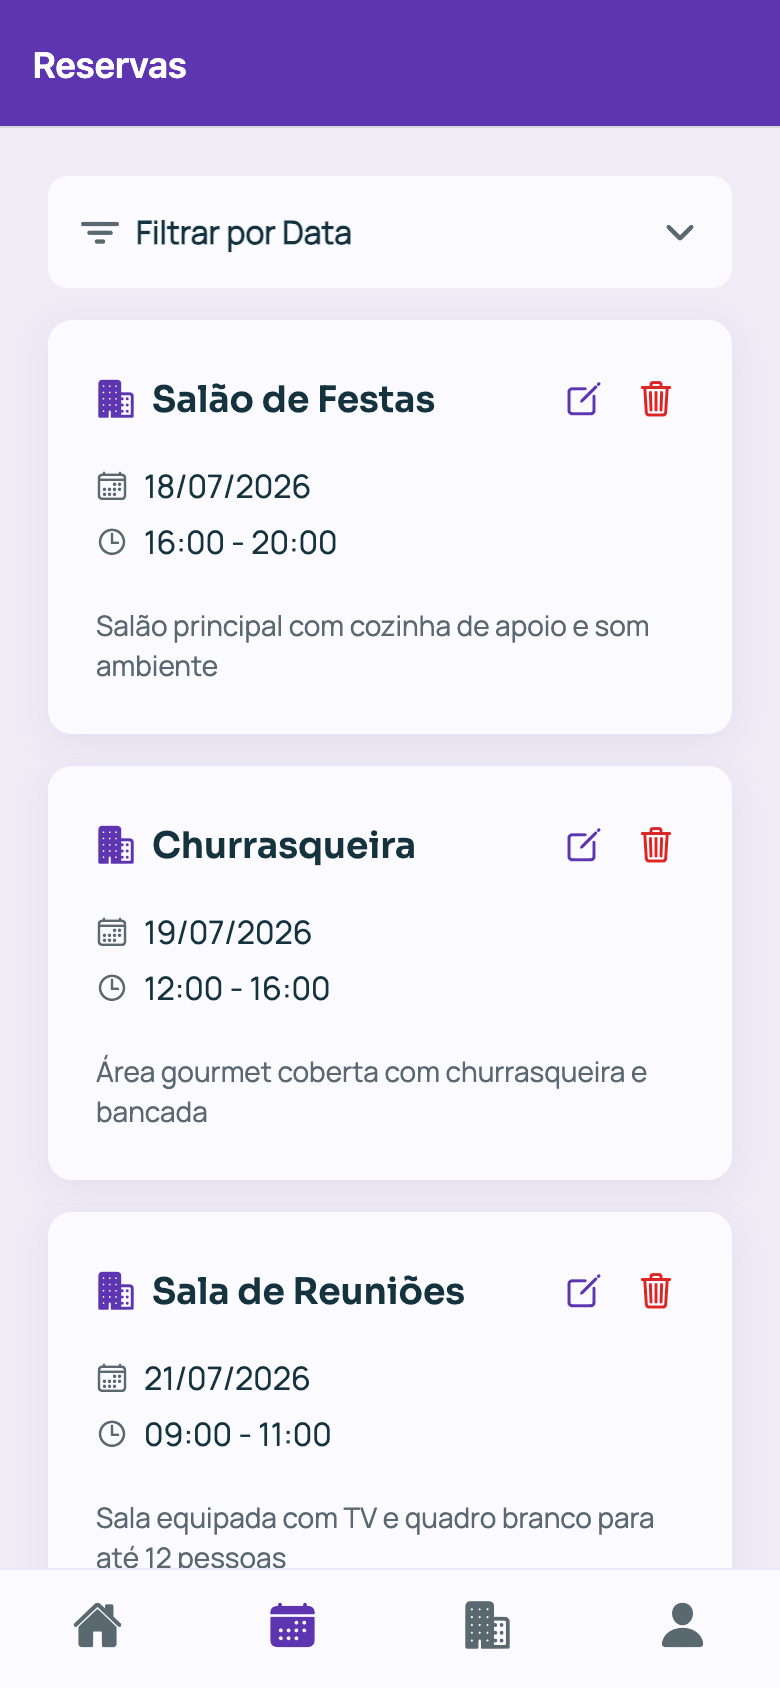
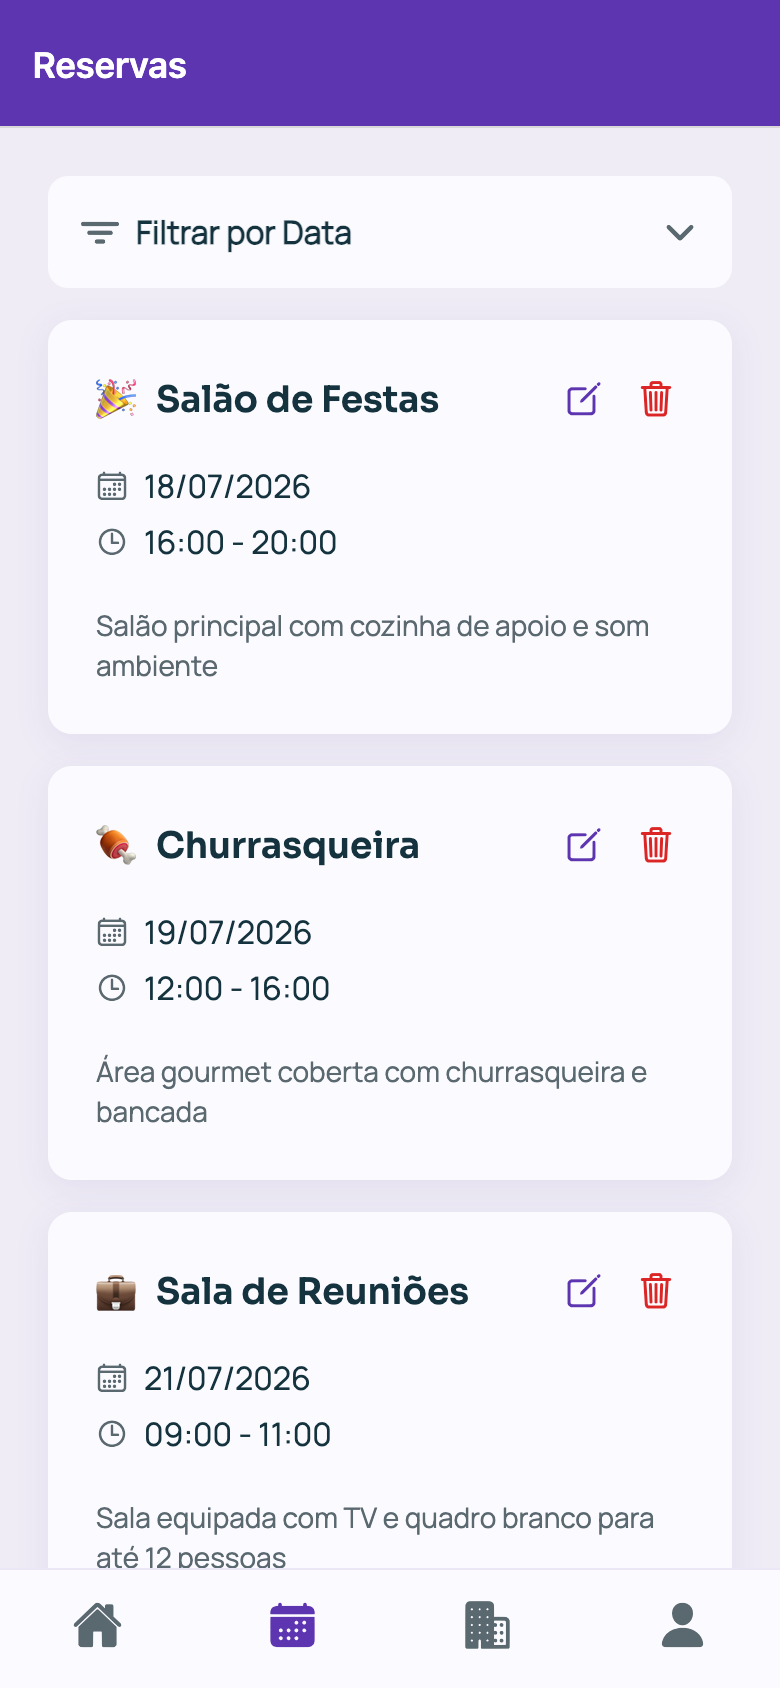
feat(mobile): match admin login design and add space emojis to bookings

Changed region(s): [[0.1231, 0.7393, 0.5846, 0.8009], [0.1231, 0.4621, 0.5538, 0.5237], [0.1231, 0.2156, 0.5538, 0.2464]]

diff --git a/src/mobile/components/brand/AgendifyIcon.tsx b/src/mobile/components/brand/AgendifyIcon.tsx
@@ -1,0 +1,67 @@
+import Svg, { Circle, Defs, Mask, Path, Rect } from 'react-native-svg';
+
+export type IconVariant = 'brand' | 'dark' | 'mono';
+
+interface AgendifyIconProps {
+  /** brand: roxo+âmbar · dark: roxo claro p/ fundos escuros · mono: uma cor */
+  variant?: IconVariant;
+  size?: number;
+  /** Cor usada na variante mono. */
+  color?: string;
+}
+
+const SQUARE_FILL: Record<IconVariant, string> = {
+  brand: '#5E35B1',
+  dark: '#7E55D2',
+  mono: 'currentColor',
+};
+
+/**
+ * Ícone da marca Agendify — quadrado arredondado (espaço) + selo âmbar com check
+ * (reserva confirmada). Porta fiel do componente do admin (grade 240×240): o vão
+ * é subtraído via máscara para o selo "encaixar" no espaço.
+ */
+export function AgendifyIcon({
+  variant = 'brand',
+  size = 32,
+  color = '#5E35B1',
+}: AgendifyIconProps) {
+  const maskId = `agendify-notch-${variant}`;
+  const mono = variant === 'mono';
+  const squareFill = mono ? color : SQUARE_FILL[variant];
+
+  return (
+    <Svg
+      viewBox="0 0 240 240"
+      width={size}
+      height={size}
+      accessibilityRole="image"
+      accessibilityLabel="Agendify"
+    >
+      <Defs>
+        <Mask id={maskId}>
+          <Rect width="240" height="240" fill="#fff" />
+          <Circle cx="176" cy="176" r="58" fill="#000" />
+        </Mask>
+      </Defs>
+      <Rect
+        x="18"
+        y="18"
+        width="150"
+        height="150"
+        rx="42"
+        fill={squareFill}
+        mask={`url(#${maskId})`}
+      />
+      <Circle cx="176" cy="176" r="44" fill={mono ? color : '#FFB300'} />
+      <Path
+        d="M160 177 L171 188 L193 164"
+        fill="none"
+        stroke={mono ? '#fff' : '#14333E'}
+        strokeWidth="8"
+        strokeLinecap="round"
+        strokeLinejoin="round"
+      />
+    </Svg>
+  );
+}

diff --git a/src/mobile/app/(auth)/login.tsx b/src/mobile/app/(auth)/login.tsx
@@ -18,10 +18,11 @@ import {
   spacing,
   typography,
   borderRadius,
-  fontFamily,
   type ThemeColors,
 } from '@/constants/theme';
+import { Logo } from '@/components/brand';
 import { Button } from '@/components/ui/Button';
+import { Card } from '@/components/ui/Card';
 import { Input } from '@/components/ui/Input';
 import { useAuth } from '@/lib/contexts/AuthContext';
 import { useTheme } from '@/lib/theme/ThemeProvider';
@@ -79,14 +80,11 @@ export default function LoginScreen() {
         contentContainerStyle={styles.scrollContent}
         keyboardShouldPersistTaps="handled"
       >
-        <View style={styles.header}>
-          <Text style={styles.brandTitle} accessibilityRole="header">
-            Agendify
-          </Text>
-          <Text style={styles.subtitle}>Sistema de Reservas de Espaços</Text>
-        </View>
-
-        <View style={styles.form}>
+        <Card style={styles.card}>
+          <View style={styles.header}>
+            <Logo orientation="vertical" iconSize={48} />
+            <Text style={styles.subtitle}>Sistema de Reservas de Espaços</Text>
+          </View>
           <Controller
             control={control}
             name="email"
@@ -100,13 +98,6 @@ export default function LoginScreen() {
                 error={errors.email?.message}
                 keyboardType="email-address"
                 autoCapitalize="none"
-                leftIcon={
-                  <Ionicons
-                    name="mail-outline"
-                    size={20}
-                    color={colors.inkMuted}
-                  />
-                }
               />
             )}
           />
@@ -123,13 +114,6 @@ export default function LoginScreen() {
                 onBlur={onBlur}
                 error={errors.password?.message}
                 secureTextEntry={!showPassword}
-                leftIcon={
-                  <Ionicons
-                    name="lock-closed-outline"
-                    size={20}
-                    color={colors.inkMuted}
-                  />
-                }
                 rightIcon={
                   <Pressable
                     onPress={() => setShowPassword(!showPassword)}
@@ -169,7 +153,7 @@ export default function LoginScreen() {
               <Text style={styles.registerTextBold}>Aceitar</Text>
             </Text>
           </Pressable>
-        </View>
+        </Card>
       </ScrollView>
     </KeyboardAvoidingView>
   );
@@ -179,7 +163,7 @@ const createStyles = (colors: ThemeColors) =>
   StyleSheet.create({
     container: {
       flex: 1,
-      backgroundColor: colors.primary,
+      backgroundColor: colors.background,
     },
     scrollContent: {
       flexGrow: 1,
@@ -189,26 +173,19 @@ const createStyles = (colors: ThemeColors) =>
       width: '100%',
       alignSelf: 'center',
     },
-    header: {
-      alignItems: 'center',
-      marginBottom: spacing.xxl,
-    },
-    brandTitle: {
-      fontFamily: fontFamily.displayExtrabold,
-      color: colors.onPrimary,
-      fontSize: 48,
-      fontWeight: '800',
-      marginBottom: spacing.sm,
-    },
-    subtitle: {
-      ...typography.body,
-      color: colors.onPrimary,
-      opacity: 0.9,
-    },
-    form: {
-      backgroundColor: colors.surface,
+    // Mesmo desenho do login do admin: card centrado, lockup vertical + subtítulo.
+    card: {
       borderRadius: borderRadius.xl,
       padding: spacing.xl,
+    },
+    header: {
+      alignItems: 'center',
+      marginBottom: spacing.xl,
+      gap: spacing.sm,
+    },
+    subtitle: {
+      ...typography.bodySmall,
+      color: colors.textMuted,
     },
     loginButton: {
       marginTop: spacing.md,

diff --git a/src/mobile/components/brand/Logo.tsx b/src/mobile/components/brand/Logo.tsx
@@ -1,0 +1,43 @@
+import { View, type StyleProp, type ViewStyle } from 'react-native';
+import { spacing } from '@/constants/theme';
+import { useTheme } from '@/lib/theme/ThemeProvider';
+import { AgendifyIcon } from './AgendifyIcon';
+import { Wordmark } from './Wordmark';
+
+interface LogoProps {
+  /** horizontal: ícone + wordmark lado a lado · vertical: empilhado (splash/login) */
+  orientation?: 'horizontal' | 'vertical';
+  iconSize?: number;
+  wordmarkFontSize?: number;
+  style?: StyleProp<ViewStyle>;
+}
+
+/**
+ * Trava (lockup) da marca — ícone + wordmark, como no admin. No tema escuro o
+ * ícone usa a variante "dark" (roxo claro), seguindo o guia de marca.
+ */
+export function Logo({
+  orientation = 'horizontal',
+  iconSize = 36,
+  wordmarkFontSize = 24,
+  style,
+}: LogoProps) {
+  const { isDark } = useTheme();
+  const vertical = orientation === 'vertical';
+
+  return (
+    <View
+      style={[
+        {
+          flexDirection: vertical ? 'column' : 'row',
+          alignItems: 'center',
+          gap: vertical ? spacing.md : spacing.sm,
+        },
+        style,
+      ]}
+    >
+      <AgendifyIcon variant={isDark ? 'dark' : 'brand'} size={iconSize} />
+      <Wordmark fontSize={wordmarkFontSize} />
+    </View>
+  );
+}

diff --git a/src/mobile/components/brand/Wordmark.tsx b/src/mobile/components/brand/Wordmark.tsx
@@ -1,0 +1,33 @@
+import { Text, type StyleProp, type TextStyle } from 'react-native';
+import { fontFamily } from '@/constants/theme';
+import { useTheme } from '@/lib/theme/ThemeProvider';
+
+interface WordmarkProps {
+  fontSize?: number;
+  style?: StyleProp<TextStyle>;
+}
+
+/**
+ * Wordmark da marca — "agendify." em Sora ExtraBold (800), minúsculas, com o
+ * ponto âmbar ("reserva feita, ponto final"). A cor do texto acompanha o tema;
+ * o ponto é sempre âmbar. Mesmo desenho do componente do admin.
+ */
+export function Wordmark({ fontSize = 24, style }: WordmarkProps) {
+  const { colors } = useTheme();
+
+  return (
+    <Text
+      style={[
+        {
+          fontFamily: fontFamily.displayExtrabold,
+          fontSize,
+          letterSpacing: -0.02 * fontSize,
+          color: colors.text,
+        },
+        style,
+      ]}
+    >
+      agendify<Text style={{ color: colors.accent }}>.</Text>
+    </Text>
+  );
+}

diff --git a/src/mobile/lib/utils/spaceEmoji.ts b/src/mobile/lib/utils/spaceEmoji.ts
@@ -1,0 +1,32 @@
+// Emoji ilustrativo por tipo de espaço, inferido do nome (não há campo de
+// categoria no modelo). Comparação sem acentos para casar "salão"/"salao" etc.
+
+const EMOJI_BY_KEYWORD: [string[], string][] = [
+  [['festa', 'salao', 'evento', 'confraterniza'], '🎉'],
+  [['churrasqueira', 'churrasco', 'gourmet'], '🍖'],
+  [['piscina'], '🏊'],
+  [['quadra', 'esporte', 'futebol', 'society'], '⚽'],
+  [['tenis'], '🎾'],
+  [['academia', 'fitness', 'ginastica'], '🏋️'],
+  [['jardim', 'ar livre', 'parque', 'praca', 'externo', 'externa'], '🌳'],
+  [['brinquedoteca', 'playground', 'infantil'], '🧸'],
+  [['auditorio', 'palestra', 'teatro'], '🎤'],
+  [['cinema'], '🎬'],
+  [['reuniao', 'reunioes', 'escritorio', 'coworking', 'sala'], '💼'],
+];
+
+const normalize = (value: string) =>
+  value
+    .toLowerCase()
+    .normalize('NFD')
+    .replace(/[\u0300-\u036f]/g, '');
+
+/** Emoji para um espaço a partir do nome; prédio genérico como fallback. */
+export function spaceEmoji(name: string | undefined): string {
+  if (!name) return '🏢';
+  const normalized = normalize(name);
+  for (const [keywords, emoji] of EMOJI_BY_KEYWORD) {
+    if (keywords.some((keyword) => normalized.includes(keyword))) return emoji;
+  }
+  return '🏢';
+}

diff --git a/src/mobile/app/(tabs)/bookings.tsx b/src/mobile/app/(tabs)/bookings.tsx
@@ -19,6 +19,7 @@ import { EmptyState } from '@/components/ui/EmptyState';
 import { DateFilter } from '@/components/ui/DateFilter';
 import { useAuth } from '@/lib/contexts/AuthContext';
 import { bookingsApi } from '@/lib/api/bookings';
+import { spaceEmoji } from '@/lib/utils/spaceEmoji';
 import { BookingWithDetails, Role } from '@/lib/types';
 
 export default function BookingsScreen() {
@@ -160,7 +161,9 @@ export default function BookingsScreen() {
     <Card style={styles.bookingCard}>
       <View style={styles.bookingHeader}>
         <View style={styles.bookingInfo}>
-          <Ionicons name="business" size={20} color={colors.primary} />
+          <Text style={styles.spaceEmoji} accessible={false}>
+            {spaceEmoji(item.space?.name)}
+          </Text>
           <Text style={styles.spaceName}>{item.space?.name || 'Espaço'}</Text>
         </View>
         <View style={styles.bookingActions}>
@@ -294,6 +297,9 @@ const createStyles = (colors: ThemeColors) =>
       flexDirection: 'row',
       alignItems: 'center',
       flex: 1,
+    },
+    spaceEmoji: {
+      fontSize: 20,
     },
     spaceName: {
       ...typography.h5,

diff --git a/src/mobile/components/brand/index.ts b/src/mobile/components/brand/index.ts
@@ -1,0 +1,3 @@
+export { AgendifyIcon } from './AgendifyIcon';
+export { Wordmark } from './Wordmark';
+export { Logo } from './Logo';